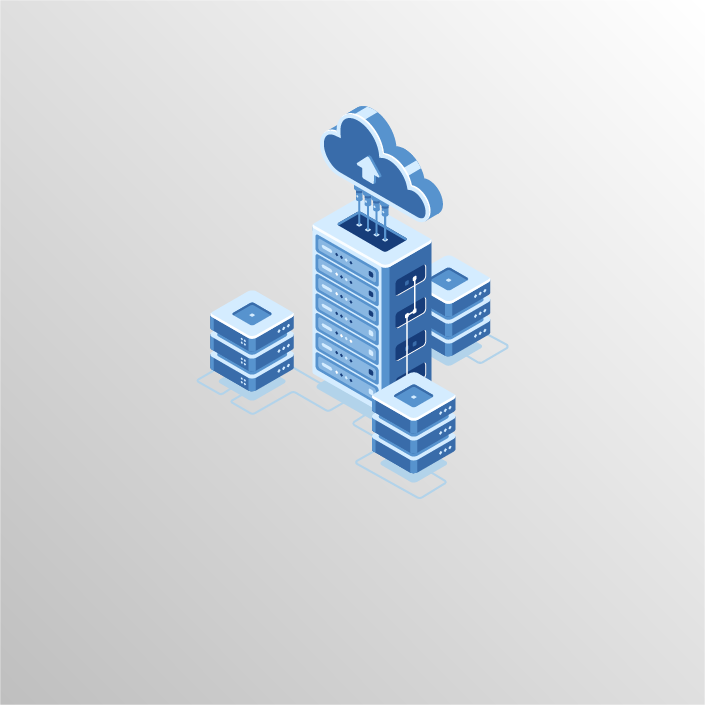
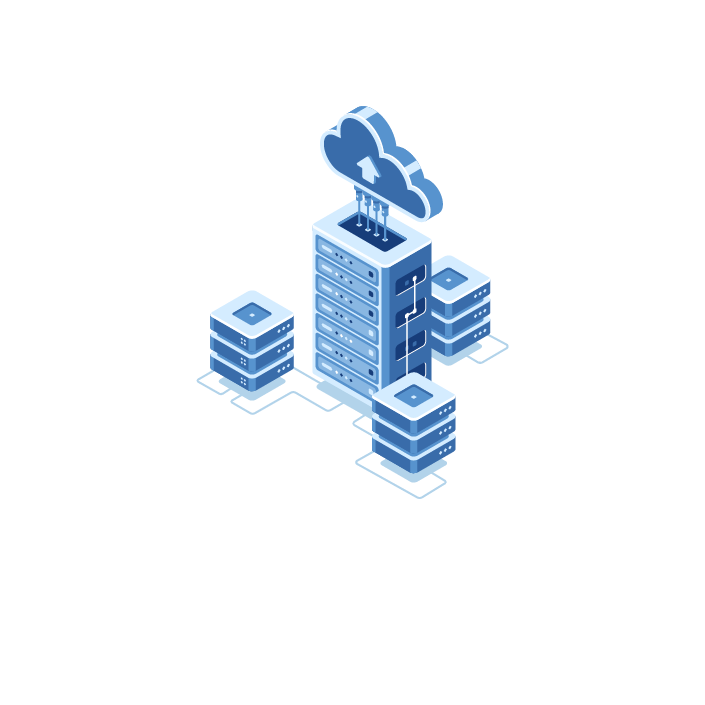
v6
v6

diff --git a/Website_25_2/index.html b/Website_25_2/index.html
@@ -316,8 +316,8 @@
           <div class="col-lg-4 col-md-6 portfolio-item filter-transacciones">
             <div class="portfolio-wrap">
               <figure>
-                <img src="assets/img/portfolio/app1.jpg" class="img-fluid" alt="">
-                <a href="assets/img/portfolio/app1.jpg" data-lightbox="portfolio" data-title="App 1" class="link-preview"><i class="ion ion-eye"></i></a>
+                <img src="assets/img/especialidades/productosFinancieros.png" class="img-fluid" alt="">
+                <a  href="assets/img/especialidades/productosFinancieros.png" data-lightbox="portfolio" data-title="App 1" class="link-preview"><i class="ion ion-eye"></i></a>
                 <a href="portfolio-details.html" class="link-details" title="More Details"><i class="ion ion-android-open"></i></a>
               </figure>
               <div class="portfolio-info">
@@ -330,8 +330,8 @@
           <div class="col-lg-4 col-md-6 portfolio-item filter-transacciones">
             <div class="portfolio-wrap">
               <figure>
-                <img src="assets/img/portfolio/app1.jpg" class="img-fluid" alt="">
-                <a href="assets/img/portfolio/app1.jpg" data-lightbox="portfolio" data-title="App 1" class="link-preview"><i class="ion ion-eye"></i></a>
+                <img src="assets/img/especialidades/tuCoin.png" class="img-fluid" alt="">
+                <a  href="assets/img/especialidades/tuCoin.png" data-lightbox="portfolio" data-title="App 1" class="link-preview"><i class="ion ion-eye"></i></a>
                 <a href="portfolio-details.html" class="link-details" title="More Details"><i class="ion ion-android-open"></i></a>
               </figure>
               <div class="portfolio-info">
@@ -345,8 +345,8 @@
           <div class="col-lg-4 col-md-6 portfolio-item filter-practicas">
             <div class="portfolio-wrap">
               <figure>
-                <img src="assets/img/portfolio/web3.jpg" class="img-fluid" alt="">
-                <a href="assets/img/portfolio/web3.jpg" class="link-preview venobox" data-gall="portfolioGallery" title="Web 3"><i class="ion ion-eye"></i></a>
+                <img src="assets/img/especialidades/serviciosFinancieros.png" class="img-fluid" alt="">
+                <a  href="assets/img/especialidades/serviciosFinancieros.png" class="link-preview venobox" data-gall="portfolioGallery" title="Web 3"><i class="ion ion-eye"></i></a>
                 <a href="portfolio-details.html" class="link-details" title="More Details"><i class="ion ion-android-open"></i></a>
               </figure>
               <div class="portfolio-info">
@@ -358,8 +358,8 @@
           <div class="col-lg-4 col-md-6 portfolio-item filter-practicas">
             <div class="portfolio-wrap">
               <figure>
-                <img src="assets/img/portfolio/web3.jpg" class="img-fluid" alt="">
-                <a href="assets/img/portfolio/web3.jpg" class="link-preview venobox" data-gall="portfolioGallery" title="Web 3"><i class="ion ion-eye"></i></a>
+                <img src="assets/img/especialidades/projectManagement.png" class="img-fluid" alt="">
+                <a  href="assets/img/especialidades/projectManagement.png" class="link-preview venobox" data-gall="portfolioGallery" title="Web 3"><i class="ion ion-eye"></i></a>
                 <a href="portfolio-details.html" class="link-details" title="More Details"><i class="ion ion-android-open"></i></a>
               </figure>
               <div class="portfolio-info">
@@ -371,8 +371,8 @@
           <div class="col-lg-4 col-md-6 portfolio-item filter-practicas">
             <div class="portfolio-wrap">
               <figure>
-                <img src="assets/img/portfolio/web3.jpg" class="img-fluid" alt="">
-                <a href="assets/img/portfolio/web3.jpg" class="link-preview venobox" data-gall="portfolioGallery" title="Web 3"><i class="ion ion-eye"></i></a>
+                <img src="assets/img/especialidades/solutionCenter.png" class="img-fluid" alt="">
+                <a  href="assets/img/especialidades/solutionCenter.png" class="link-preview venobox" data-gall="portfolioGallery" title="Web 3"><i class="ion ion-eye"></i></a>
                 <a href="portfolio-details.html" class="link-details" title="More Details"><i class="ion ion-android-open"></i></a>
               </figure>
               <div class="portfolio-info">
@@ -384,8 +384,8 @@
           <div class="col-lg-4 col-md-6 portfolio-item filter-practicas">
             <div class="portfolio-wrap">
               <figure>
-                <img src="assets/img/portfolio/web3.jpg" class="img-fluid" alt="">
-                <a href="assets/img/portfolio/web3.jpg" class="link-preview venobox" data-gall="portfolioGallery" title="Web 3"><i class="ion ion-eye"></i></a>
+                <img src="assets/img/especialidades/capacitacion.png" class="img-fluid" alt="">
+                <a  href="assets/img/especialidades/capacitacion.png" class="link-preview venobox" data-gall="portfolioGallery" title="Web 3"><i class="ion ion-eye"></i></a>
                 <a href="portfolio-details.html" class="link-details" title="More Details"><i class="ion ion-android-open"></i></a>
               </figure>
               <div class="portfolio-info">
@@ -397,8 +397,8 @@
           <div class="col-lg-4 col-md-6 portfolio-item filter-practicas">
             <div class="portfolio-wrap">
               <figure>
-                <img src="assets/img/portfolio/web3.jpg" class="img-fluid" alt="">
-                <a href="assets/img/portfolio/web3.jpg" class="link-preview venobox" data-gall="portfolioGallery" title="Web 3"><i class="ion ion-eye"></i></a>
+                <img src="assets/img/especialidades/testing.png" class="img-fluid" alt="">
+                <a  href="assets/img/especialidades/testing.png" class="link-preview venobox" data-gall="portfolioGallery" title="Web 3"><i class="ion ion-eye"></i></a>
                 <a href="portfolio-details.html" class="link-details" title="More Details"><i class="ion ion-android-open"></i></a>
               </figure>
               <div class="portfolio-info">
@@ -410,8 +410,8 @@
           <div class="col-lg-4 col-md-6 portfolio-item filter-practicas">
             <div class="portfolio-wrap">
               <figure>
-                <img src="assets/img/portfolio/web3.jpg" class="img-fluid" alt="">
-                <a href="assets/img/portfolio/web3.jpg" class="link-preview venobox" data-gall="portfolioGallery" title="Web 3"><i class="ion ion-eye"></i></a>
+                <img src="assets/img/especialidades/seguridad.png" class="img-fluid" alt="">
+                <a  href="assets/img/especialidades/seguridad.png" class="link-preview venobox" data-gall="portfolioGallery" title="Web 3"><i class="ion ion-eye"></i></a>
                 <a href="portfolio-details.html" class="link-details" title="More Details"><i class="ion ion-android-open"></i></a>
               </figure>
               <div class="portfolio-info">
@@ -423,8 +423,8 @@
           <div class="col-lg-4 col-md-6 portfolio-item filter-practicas">
             <div class="portfolio-wrap">
               <figure>
-                <img src="assets/img/portfolio/web3.jpg" class="img-fluid" alt="">
-                <a href="assets/img/portfolio/web3.jpg" class="link-preview venobox" data-gall="portfolioGallery" title="Web 3"><i class="ion ion-eye"></i></a>
+                <img src="assets/img/especialidades/management.png" class="img-fluid" alt="">
+                <a  href="assets/img/especialidades/management.png" class="link-preview venobox" data-gall="portfolioGallery" title="Web 3"><i class="ion ion-eye"></i></a>
                 <a href="portfolio-details.html" class="link-details" title="More Details"><i class="ion ion-android-open"></i></a>
               </figure>
               <div class="portfolio-info">
@@ -436,8 +436,8 @@
           <div class="col-lg-4 col-md-6 portfolio-item filter-practicas">
             <div class="portfolio-wrap">
               <figure>
-                <img src="assets/img/portfolio/web3.jpg" class="img-fluid" alt="">
-                <a href="assets/img/portfolio/web3.jpg" class="link-preview venobox" data-gall="portfolioGallery" title="Web 3"><i class="ion ion-eye"></i></a>
+                <img src="assets/img/especialidades/infraestructura.png" class="img-fluid" alt="">
+                <a  href="assets/img/especialidades/infraestructura.png" class="link-preview venobox" data-gall="portfolioGallery" title="Web 3"><i class="ion ion-eye"></i></a>
                 <a href="portfolio-details.html" class="link-details" title="More Details"><i class="ion ion-android-open"></i></a>
               </figure>
               <div class="portfolio-info">
@@ -455,7 +455,7 @@
                 <a href="portfolio-details.html" class="link-details" title="More Details"><i class="ion ion-android-open"></i></a>
               </figure>
               <div class="portfolio-info">
-                <h4><a href="portfolio-details.html" style="color:#4cb6e5;">SOLUCIONES MÓVILES</a></h4>
+                <h4><a href="portfolio-details.html">SOLUCIONES MÓVILES</a></h4>
                 <!-- <p>SOLUCIONES MÓVILES</p> -->
               </div>
             </div>
@@ -468,7 +468,7 @@
                 <a href="portfolio-details.html" class="link-details" title="More Details"><i class="ion ion-android-open"></i></a>
               </figure>
               <div class="portfolio-info">
-                <h4><a href="portfolio-details.html" style="color:#4cb6e5;">CLOUD</a></h4>
+                <h4><a href="portfolio-details.html">CLOUD</a></h4>
                 <!-- <p>CLOUD</p> -->
               </div>
             </div>
@@ -481,7 +481,7 @@
                 <a href="portfolio-details.html" class="link-details" title="More Details"><i class="ion ion-android-open"></i></a>
               </figure>
               <div class="portfolio-info">
-                <h4><a href="portfolio-details.html" style="color:#4cb6e5;">E-FACTURA</a></h4>
+                <h4><a href="portfolio-details.html">E-FACTURA</a></h4>
                 <!-- <p>E-FACTURA</p> -->
               </div>
             </div>
@@ -491,8 +491,8 @@
           <div class="col-lg-4 col-md-6 portfolio-item filter-ambito">
             <div class="portfolio-wrap">
               <figure>
-                <img src="assets/img/portfolio/app2.jpg" class="img-fluid" alt="">
-                <a href="assets/img/portfolio/app2.jpg" class="link-preview venobox" data-gall="portfolioGallery" title="App 2"><i class="ion ion-eye"></i></a>
+                <img src="assets/img/especialidades/bigData.png" class="img-fluid" alt="">
+                <a href="assets/img/especialidades/bigData.png" class="link-preview venobox" data-gall="portfolioGallery" title="App 2"><i class="ion ion-eye"></i></a>
                 <a href="portfolio-details.html" class="link-details" title="More Details"><i class="ion ion-android-open"></i></a>
               </figure>
               <div class="portfolio-info">
@@ -504,8 +504,8 @@
           <div class="col-lg-4 col-md-6 portfolio-item filter-ambito">
             <div class="portfolio-wrap">
               <figure>
-                <img src="assets/img/portfolio/app2.jpg" class="img-fluid" alt="">
-                <a href="assets/img/portfolio/app2.jpg" class="link-preview venobox" data-gall="portfolioGallery" title="App 2"><i class="ion ion-eye"></i></a>
+                <img src="assets/img/especialidades/businessIntelligence.png" class="img-fluid" alt="">
+                <a href ="assets/img/especialidades/businessIntelligence.png" class="link-preview venobox" data-gall="portfolioGallery" title="App 2"><i class="ion ion-eye"></i></a>
                 <a href="portfolio-details.html" class="link-details" title="More Details"><i class="ion ion-android-open"></i></a>
               </figure>
               <div class="portfolio-info">
@@ -517,8 +517,8 @@
           <div class="col-lg-4 col-md-6 portfolio-item filter-ambito">
             <div class="portfolio-wrap">
               <figure>
-                <img src="assets/img/portfolio/app2.jpg" class="img-fluid" alt="">
-                <a href="assets/img/portfolio/app2.jpg" class="link-preview venobox" data-gall="portfolioGallery" title="App 2"><i class="ion ion-eye"></i></a>
+                <img src="assets/img/especialidades/inteligenciaArtificial.png" class="img-fluid" alt="">
+                <a href="assets/img/especialidades/inteligenciaArtificial.png" class="link-preview venobox" data-gall="portfolioGallery" title="App 2"><i class="ion ion-eye"></i></a>
                 <a href="portfolio-details.html" class="link-details" title="More Details"><i class="ion ion-android-open"></i></a>
               </figure>
               <div class="portfolio-info">

diff --git a/Website_25_2/assets/css/style.css b/Website_25_2/assets/css/style.css
@@ -1022,7 +1022,8 @@ section {
 }
 
 #portfolio .portfolio-item figure {
-  background: #000;
+  /* background: #000; */
+  background: linear-gradient(45deg, #efefef 0%, #ffffff 90%);
   overflow: hidden;
   height: 240px;
   position: relative;
